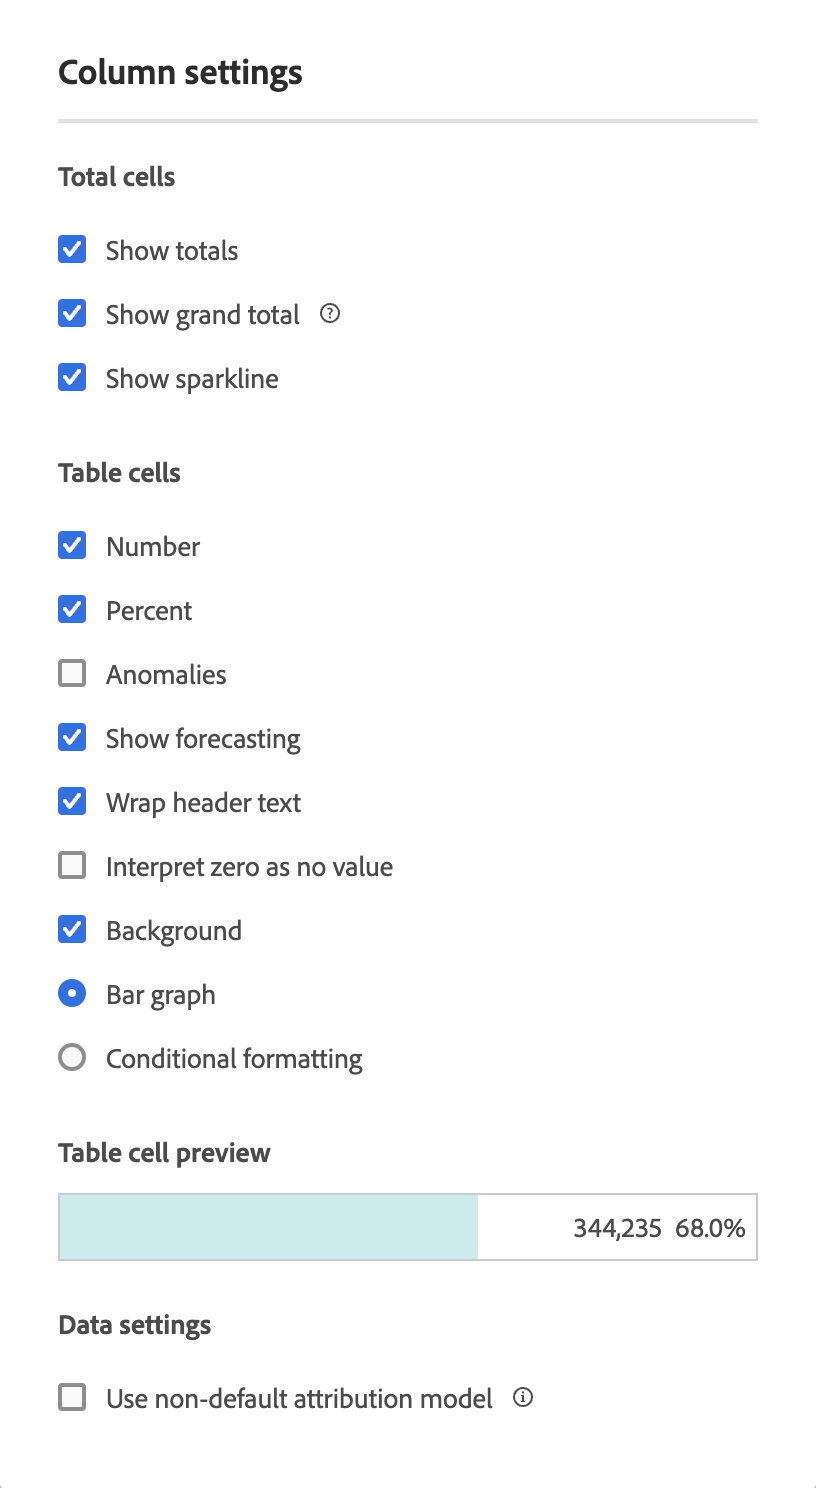
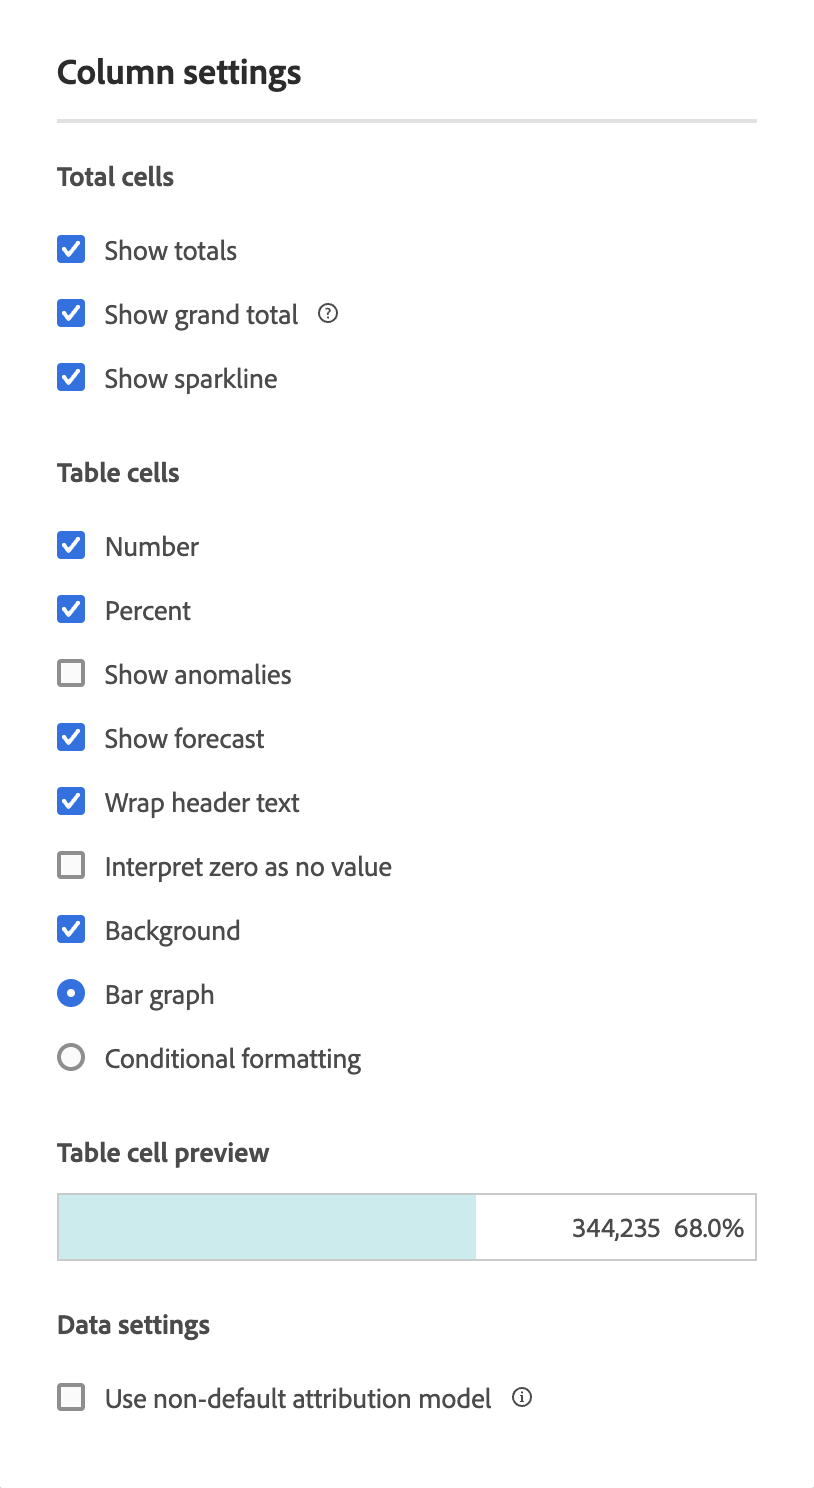
Final updates

diff --git a/help/release-notes/doc-changes.md b/help/release-notes/doc-changes.md
@@ -14,6 +14,7 @@ The following updates were made to the Customer Journey Analytics documentation 
 | Feature | Description |
 | --- | --- |
 | **January 2024** | |
+| Forecasting | Added documentation on [forecasting](../analysis-workspace/c-forecast/forecasting.md), the new Analysis Workspace feature to forecast a standard or calculated metric with any supported time granularity (hourly, daily, weekly, monthly and yearly) for freeform tables and lince charts. |
 | Updated the documentation for adding accounts and locations when exporting full tables | Updated the documentation to reflect minor interface updates when configuring a new account or location when [exporting full tables from Analysis Workspace](/help/analysis-workspace/export/export-cloud.md#export-full-tables-from-analysis-workspace).<p>A new [!UICONTROL **Add account**] option is now available in the [!UICONTROL **Account**] drop-down menu. The [!UICONTROL **Add location**] option that was previously available as a button next to the [!UICONTROL **Location name**] drop-down menu is now available within the menu itself. |
 | New component migration information when migrating from Adobe Analytics | Added information to [Evolution from Adobe Analytics](/help/getting-started/aa-to-cja.md) that references the new [component migration](https://experienceleague.adobe.com/docs/analytics/admin/admin-tools/component-migration/prepare-component-migration.html) capabilities that are documented in the Adobe Analytics Admin Guide. |
 | Clarified that certain information is available only to administrators  | Added information stating that the "Last used" and "Used in" columns that are described in [Calculated metrics manager](/help/components/calc-metrics/cm-workflow/cm-manager.md) and the [Filters manager](/help/components/filters/manage-filters.md) are available only to system administrators. |
@@ -35,7 +36,7 @@ The following updates were made to the Customer Journey Analytics documentation 
 | Updates to Anomaly Detection documentation | The documentation for Anomaly Detection was previously located in a section about Virtual Analyst. The following changes were made: <ul><li>The term Virtual Analyst was removed from the documentation.</li><li>The section about [Anomaly Detection](/help/analysis-workspace/c-anomaly-detection/anomaly-detection.md) was moved directly beneath the Analysis Workspace section.</li></ul> |
 | **October 2023** | |
 | Using derived field for setting goals / targets | Added [use case](../use-cases/goals-using-derived-fields.md) article illustrating how to use derived fields for setting goals / targets and reporting on these. | 
-| Export full tables to the cloud | Added documentation about exporting full tables with millions of Workspace rows to cloud destinations. <p>Exporting full tables offers one-time or scheduled delivery of data tables designed within Workspace with support for up to five breakdowns, five metrics, filters, and calculated metrics, all in a concatenated table. It is the evolution of Data Warehouse reports in Adobe Analytics, with many new, often-requested features that are not available in Data Warehouse today.</p><p>For more information, see [Export Customer Journey Analytics reports to the cloud](https://experienceleague.adobe.com/docs/analytics-platform/using/cja-workspace/export/export-cloud.html).| October 4, 2023 |
+| Export full tables to the cloud | Added documentation about exporting full tables with millions of Workspace rows to cloud destinations. <p>Exporting full tables offers one-time or scheduled delivery of data tables designed within Workspace with support for up to five breakdowns, five metrics, filters, and calculated metrics, all in a concatenated table. It is the evolution of Data Warehouse reports in Adobe Analytics, with many new, often-requested features that are not available in Data Warehouse today.</p><p>For more information, see [Export Customer Journey Analytics reports to the cloud](https://experienceleague.adobe.com/docs/analytics-platform/using/cja-workspace/export/export-cloud.html). |
 | Reporting Activity Manager | Added documentation for the Reporting Activity Manager. <p>The Reporting Activity Manager lets you see the reporting capacity for each connection in your organization. It provides administrators with detailed visibility into reporting consumption in order to easily diagnose and fix capacity issues during peak reporting times.</p> <p>The following new articles were added:<ul><li>[Reporting Activity Manager overview](/help/reporting-activity-manager/reporting-activity-overview.md)</li><li>[View reporting activity in the Reporting Activity Manager](/help/reporting-activity-manager/reporting-activity.md)</li><li>[Cancel requests in the Reporting Activity Manager](/help/reporting-activity-manager/reporting-activity-cancel-requests.md)</ul>|
 | New columns on management pages | Documented new columns that are now available in the [Calculated metrics manager](https://experienceleague.adobe.com/docs/analytics-platform/using/cja-components/cja-calcmetrics/cm-workflow/cm-manager.html) and the [Filters manager](https://experienceleague.adobe.com/docs/analytics-platform/using/cja-components/cja-filters/manage-filters.html). |
 | Comparison with Adobe Analytics | Added an [overview page](../getting-started/aa-vs-cja/overview.md) as an introduction on comparing and understanding the differences between Customer Journey Analytics and Adobe Analytics. | 

diff --git a/help/analysis-workspace/visualizations/freeform-analysis-visualizations.md b/help/analysis-workspace/visualizations/freeform-analysis-visualizations.md
@@ -16,7 +16,7 @@ The following visualization types are available in Analysis Workspace:
 
 | Visualization name | Description |
 | --- | --- | 
-| [Area](/help/analysis-workspace/visualizations/area.md)<p>![Area icon](assets/Smock_GraphArea_18_N.svg)</p>  | Like a line graph, but with a colored area below the line. Use an area graph when you have multiple metrics and want to visualize the area expressed by the intersection of two or more metrics. | Answers questions like: <ul><li> |
+| [Area](/help/analysis-workspace/visualizations/area.md)<p>![Area icon](assets/Smock_GraphArea_18_N.svg)</p>  | Like a line graph, but with a colored area below the line. Use an area graph when you have multiple metrics and want to visualize the area expressed by the intersection of two or more metrics. |
 | [Bar](/help/analysis-workspace/visualizations/bar.md) <p>![Bar icon](assets/Smock_GraphBarVertical_18_N.svg)</p> | Shows vertical bars representing various values across one or more metrics. |
 | [Bullet graph](/help/analysis-workspace/visualizations/bullet-graph.md) <p>![Bullet icon](assets/Smock_GraphBullet_18_N.svg)</p> | Shows how a value you are interested in compares to or measures against other performance ranges (goals). |
 | [Cohort table](/help/analysis-workspace/visualizations/cohort-table/cohort-analysis.md)<p>![Cohort table icon](assets/Smock_TextNumbered_18_N.svg)</p> | A *`cohort`* is a group of people sharing common characteristics over a specified period. Cohort Analysis is useful for retention, churn or latency analysis. |
@@ -89,7 +89,8 @@ Each visualization has its own settings that you can manage. To access visualiza
 | Anchor Y Axis at Zero | If all the values plotted on the chart are considerably above zero, the chart default will make the bottom of the y-axis NON-ZERO. If you check this box, the y-axis will be forced to zero (and it will re-draw the chart). |
 | Normalization | Forces metrics to equal proportions. This is helpful when plotted metrics are of very different magnitudes. |
 | Display Dual Axis | Only applies if you have two metrics - you can have a y-axis on the left (for one metric) and on the right (for the other metric). This is helpful when plotted metrics are of very different magnitudes. |
-| Show Anomalies | Enhances line graphs and freeform tables by displaying anomaly detection. Anomaly detection in line visualizations includes an expected value (dashed line) and an expected range (shaded band). |
+| Show anomalies | Enhances line graphs and freeform tables by displaying anomaly detection. Anomaly detection in line visualizations includes an expected value (dashed line) and an expected range (shaded band). |
+| Show forecast | Enhances line graphs and freeform tables by displaying forecast values. |
 
 ## Legend {#legend}
 

diff --git a/help/release-notes/latest.md b/help/release-notes/latest.md
@@ -14,7 +14,7 @@ These release notes cover the release period of end of January 8, 2024 through F
 
 | Feature | Description | [Rollout starts](releases.md) | [General Availability](releases.md) |
 | ----------- | ---------- | ------- | ---- |
-| **Time-series forecasting** | Forecasting is a new Analysis Workspace feature to forecast a standard or calculated metric with any supported time granularity (hourly, daily, weekly, monthly and yearly). | January 31, 2024 | February 21, 2024 |
+| **Time-series forecasting** | [Forecasting](../analysis-workspace/c-forecast/forecasting.md) is a new Analysis Workspace feature to forecast a standard or calculated metric with any supported time granularity (hourly, daily, weekly, monthly and yearly). | January 31, 2024 | February 21, 2024 |
 | **Updates to the Key Metrics Summary visualization** | When using the Key Metric Summary visualization, the Comparison date range can now automatically update, depending on whether the Comparison date range option you choose is relative to the primary date range or fixed. [Learn more](/help/analysis-workspace/visualizations/key-metric.md). | N/A | January 17, 2024 |
 | **Adobe Product Analytics - Retention rates analysis** | Retention rates is a new guided analysis that enables you to measure your users' ongoing return habits. [Learn more](../guided-analysis/types/retention-rates.md) | N/A | January 8, 2024 |
 | **Adobe Product Analytics - Trendline overlay** | Trendlines is a new overlay setting available in the [Usage trends](/help/guided-analysis/types/usage.md) view and help to depict a clearer pattern in data. | N/A | January 17, 2024 |

diff --git a/help/main/TOC.md b/help/main/TOC.md
@@ -165,6 +165,9 @@ breadcrumb-title: Customer Journey Analytics Guide
     + [Anomaly Detection overview](../analysis-workspace/c-anomaly-detection/anomaly-detection.md)
     + [View anomalies in Analysis Workspace](../analysis-workspace/c-anomaly-detection/view-anomalies.md)
     + [Statistical techniques used in anomaly detection](../analysis-workspace/c-anomaly-detection/statistics-anomaly-detection.md)
+  + Forecasting {#forecasting}
+    + [Forecasting overview](../analysis-workspace/c-forecast/forecasting.md)
+    + [View forecasts in Analysis Workspace](../analysis-workspace/c-forecast/view-forecasts.md)
   + [User preferences](../analysis-workspace/user-preferences.md)
   + Workspace FAQs {#workspace-faq}
     + [Frequently asked questions](../analysis-workspace/workspace-faq/faq.md)

diff --git a/help/analysis-workspace/c-forecast/forecasting.md b/help/analysis-workspace/c-forecast/forecasting.md
@@ -6,6 +6,8 @@ role: User
 ---
 # Forecasting overview
 
+{{release-limited-testing}}
+
 {{select-package}}
 
 Forecasting is a new Analysis Workspace feature to forecast a standard or calculated metric with any supported time granularity (hourly, daily, weekly, monthly and yearly). Forecasting is available for time-series related data only.
